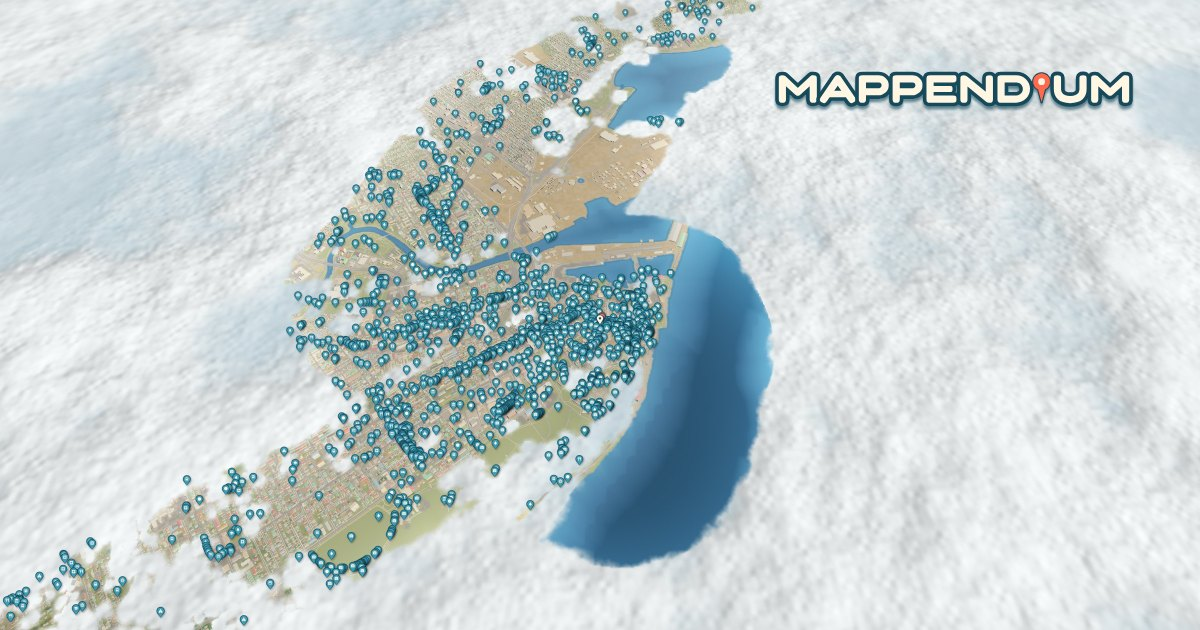
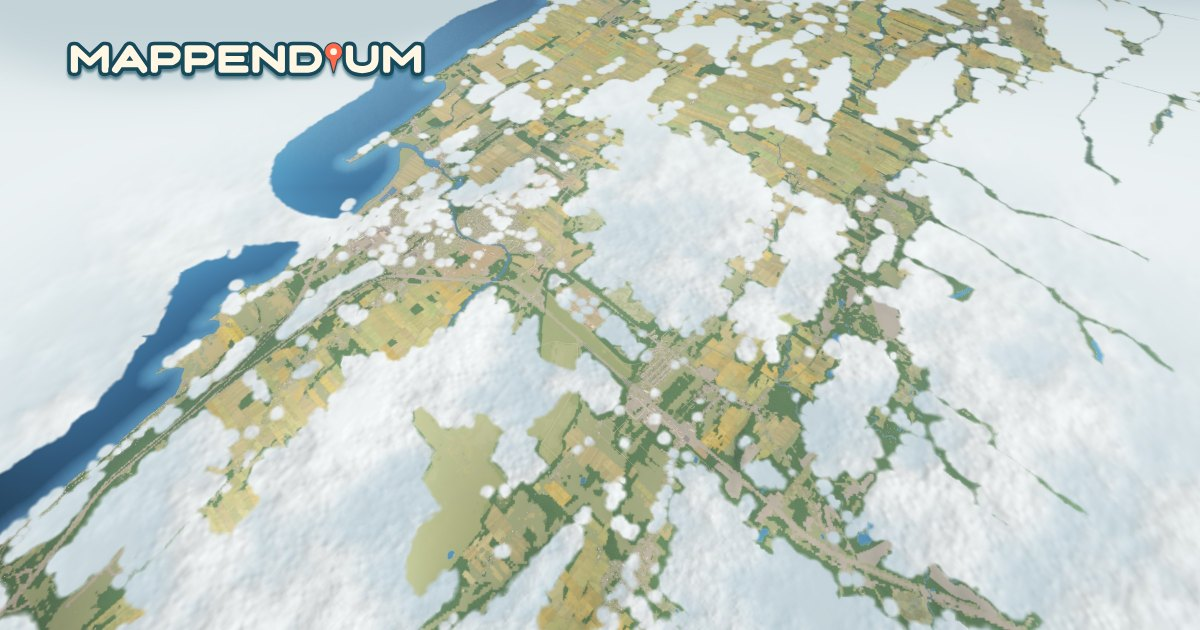
MAP-268: l'image d'un lien partage - Riviere-du-Loup, ses rangs et le fleuve vus de 12 km, decouverts par le robot qui a roule chaque route et chaque rue (sans disque ni epingle) ; le mot en haut a gauche, sur le nuage ; og:image:alt a l'avenant

diff --git a/index.html b/index.html
@@ -20,7 +20,7 @@
 <meta property="og:image" content="https://mappendium.com/partage.jpg">
 <meta property="og:image:width" content="1200">
 <meta property="og:image:height" content="630">
-<meta property="og:image:alt" content="Mappendium : Québec et le fleuve découverts, vus de haut, au milieu d'une mer de nuages, piqués d'épingles">
+<meta property="og:image:alt" content="Mappendium : Rivière-du-Loup, ses rangs et le fleuve découverts par le robot, vus de haut, au milieu d'une mer de nuages">
 <meta name="twitter:card" content="summary_large_image">
 <style>
 @font-face{font-family:"IBM Plex Sans";font-weight:400;font-style:normal;font-display:swap;src:url("polices/plex-sans-400.woff2") format("woff2")}
